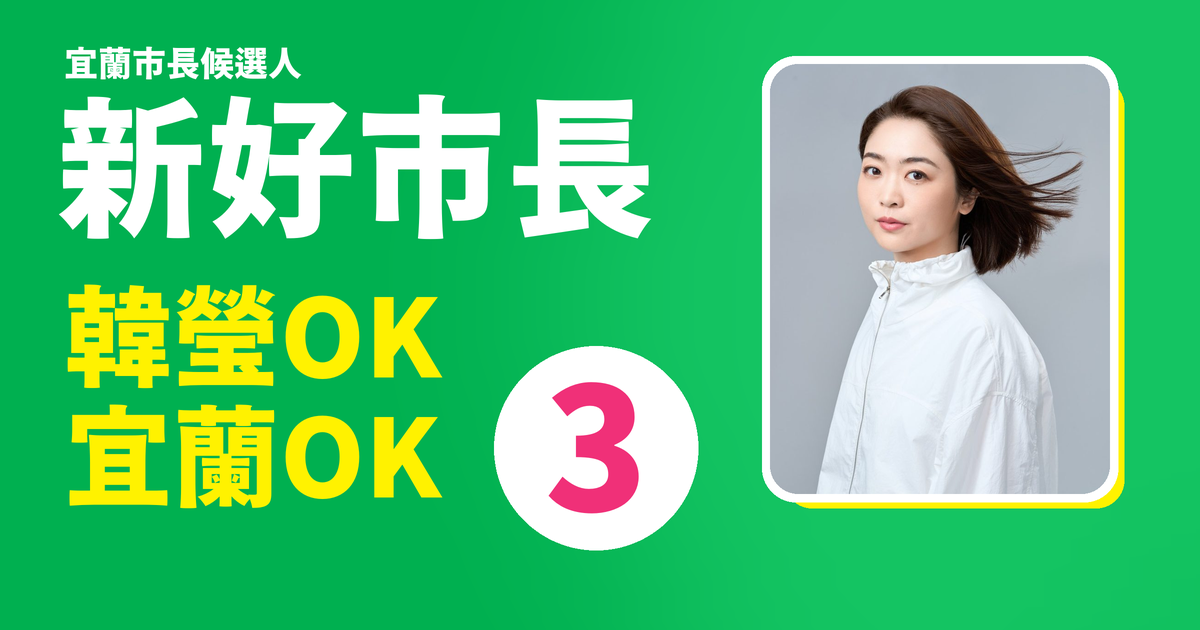
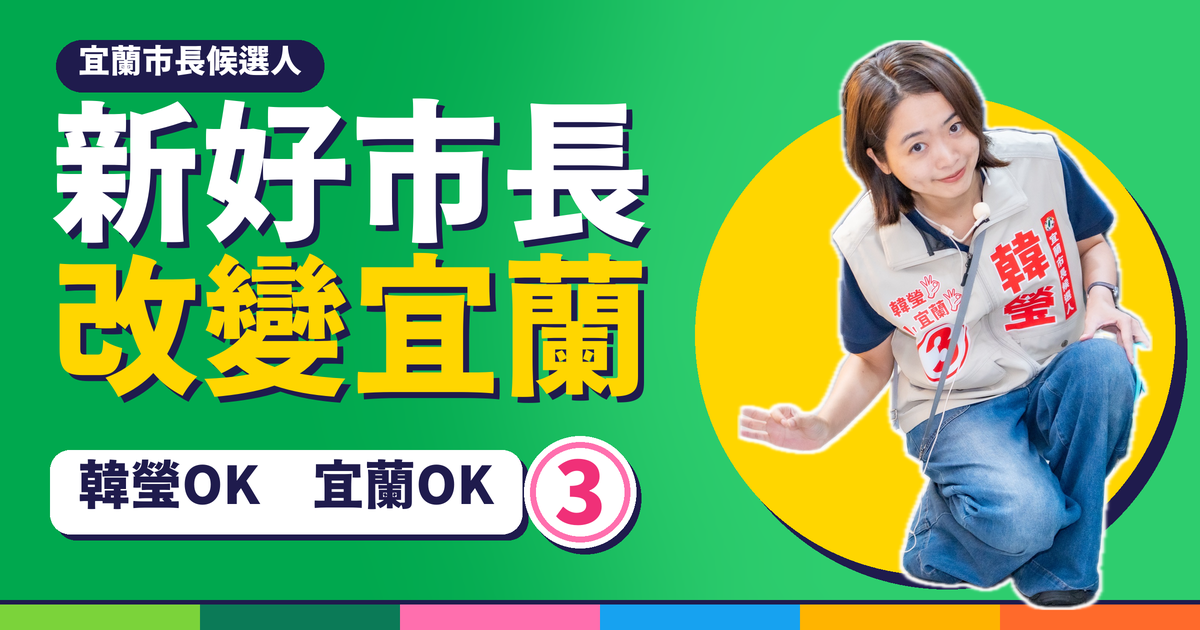
分享預覽圖換成新設計：去背人像、黃色圓、六色條

diff --git a/index.html b/index.html
@@ -7,7 +7,7 @@
 <meta property="og:type" content="website">
 <meta property="og:title" content="韓瑩政見一覽">
 <meta property="og:description" content="六新市政、清潔隊改革、福利升級，每項政見都附出處。點一個身分，看跟你有什麼關係。">
-<meta property="og:image" content="https://hanyingyilan.github.io/og.png?v=3">
+<meta property="og:image" content="https://hanyingyilan.github.io/og.png?v=4">
 <meta property="og:image:width" content="1200">
 <meta property="og:image:height" content="630">
 <meta property="og:url" content="https://hanyingyilan.github.io/">
